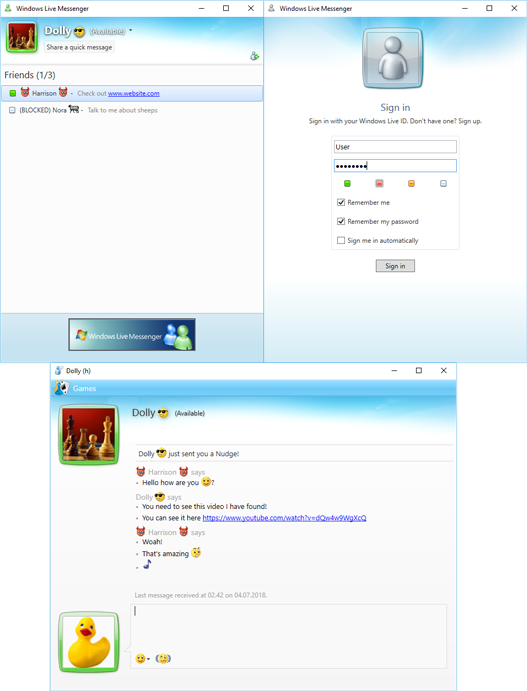
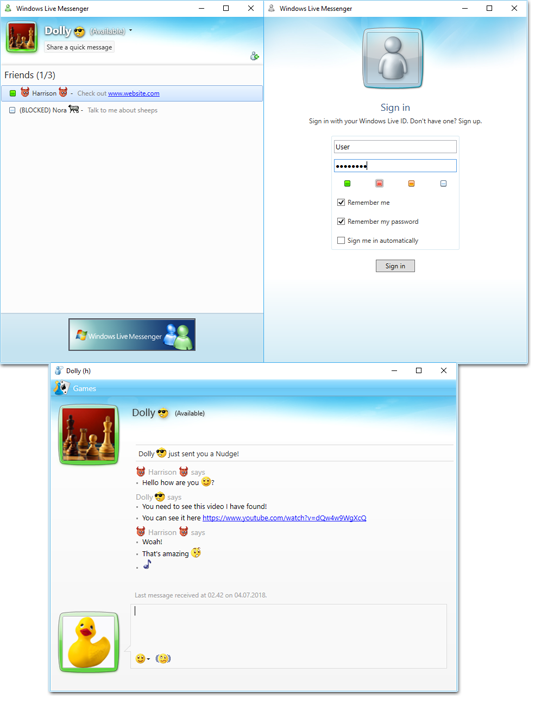
Fixed blurry image on registration page.

Changed region(s): [[0.0, 0.0, 1.0, 1.0], [0.5769, 0.0, 0.9108, 0.3951]]

diff --git a/Registration Page/style.css b/Registration Page/style.css
@@ -1,22 +1,22 @@
 html {
-  left: 0%;
-  position: relative;
-  overflow-x: hidden;
-  -webkit-transition: all .2s ease;
-  -moz-transition: all .2s ease;
-  -ms-transition: all .2s ease;
-  -o-transition: all .2s ease;
-  transition: all .2s ease;
+	left: 0%;
+	position: relative;
+	overflow-x: hidden;
+	-webkit-transition: all .2s ease;
+	-moz-transition: all .2s ease;
+	-ms-transition: all .2s ease;
+	-o-transition: all .2s ease;
+	transition: all .2s ease;
+	color: #666666;
 }
 
-body
-{
+body { 
 	overflow:auto;
-    background-color: WhiteSMoke;
+    /*background-color: WhiteSMoke;*/
+	background-color: #fdfdfd;
 }
 
-#MainWindow
-{
+#MainWindow {
 	background-image: url("\img\\header.png");
     background-repeat: no-repeat;
 	background-position: center 25px;
@@ -30,42 +30,46 @@ body
 	left: 0;
 	right: 0;
 
-    border: 1px solid #ccc;
-    background-color: #FAFAFA;
+    /*border: 1px solid #ccc;
+    background-color: #FAFAFA;*/
 }
 
-#DownloadLinkDiv
-{
+#DownloadLinkDiv {
 	position:absolute;
 	bottom: 0; 
-	left:50%;
-	margin-bottom: 5px;
+	left:33%;
+	margin-bottom: 10px;
 	transform: translate(-50%, 0%);
-    font-size: 18px;
+    font-size: 16px;
+	font-weight: bold;
+	background-color: #6699ff;
+	color: white;
+	font-family: helvetica;
+	padding: 0.75em 1.6em;
+	text-decoration: none;
+	text-transform: uppercase;
 }
 
-#ClientImageDiv
-{
-	width: 527px;
-	height: 691px;
+#ClientImageDiv {
+	width: 540px;
+	height: 706px;
 	margin: 0;
 	padding: 0;
 	position: absolute;
-	top: 55%;
-	left: 12%;
-	transform: translate(-12%, -50%);
+	top: 15%;
+	left: 5%;
+	transform: scale(1.0f);
 	background-image: url("\img\\LiveMessengerClient.png");
     background-repeat: no-repeat;
 	background-position: center center;
 }
 
-a:link    { color: #c00 }  /* unvisited links */
-a:visited { color: #0c0 }  /* visited links   */
-a:hover   { color: #00c }  /* user hovers     */
-a:active  { color: #ccc }  /* active links    */
+a:link    { color: #FFF; text-decoration: none; }
+a:visited { color: #FFF; text-decoration: none; }
+a:hover   { color: #FFF; text-decoration: none; }
+a:active  { color: #FFF; text-decoration: none; }
 
-#RegisterDiv
-{
+#RegisterDiv {
 	margin: 0;
 	padding: 0;
 	position: absolute;
@@ -75,21 +79,49 @@ a:active  { color: #ccc }  /* active links    */
 }
 
 form {
-  margin: auto;
-  position: relative;
-  width: 200px;
-  height: 350px;
-  font-family: Tahoma, Geneva, sans-serif;
-  font-size: 14px;
-  line-height: 24px;
-  color: #8c8c8c;
-  text-decoration: none;
-  padding: 10px;
+	position: relative;
+	width: 200px;
+	height: 350px;
+	font-family: sans-serif;
+	font-weight: 400;
+	font-size: 14px;
+	line-height: 24px;
+	color: #8c8c8c;
+	text-decoration: none;
+	display: inline-block;
+	padding: 3px;
+	margin: 0px;
 }
 
 input {
-    border: 1px solid #737373; 
-    padding: 2px;
-    background: rgba(255,255,255,0.5);
+	width: 95%;
+    border: 0; 
+    padding: 4px;
     margin: 0 0 10px 0;
+	background-color: #f2f2f2;
+	border-radius: 5px;
+}
+
+form h1 {
+	text-align: center;
+	color: #66b3ff;
+}
+
+form span {
+
+	color: #5c85d6;
+}
+
+.button {
+	background-color: #80bfff;
+	border: none;
+	color: white;
+	width: 98%;
+	padding: 10px 32px;
+	text-align: center;
+	text-decoration: none;
+	display: inline-block;
+	font-size: 18px;
+	margin: 14px 2px;
+	cursor: pointer;
 }

diff --git a/Registration Page/index.php b/Registration Page/index.php
@@ -7,7 +7,6 @@
 </head>
 
 <body>
-<center>
 <div id="MainWindow">
 <div id="ClientImageDiv"></div>
 <div id="RegisterDiv">
@@ -97,33 +96,32 @@ if (isset($_POST['submit']))
 ?>
 </b></center>
 <form action="" method="post">
-<center>
+
   <div>
-    <h1>Register</h1>
+    <h1>REGISTER</h1>
     <label>
-      <span>Display Name</span><br><input id="name" type="text" name="name" maxlength="20" />
+      <span>Display Name</span><br><input placeholder="" autocomplete="off" id="name" type="text" name="name" maxlength="20" />
     </label>
 <br>
     <label>
-      <span>Login ID</span><br><input id="email" type="text" name="id" maxlength="12" />
+      <span>Login ID</span><br><input placeholder="" autocomplete="off" id="email" type="text" name="id" maxlength="12" />
     </label>
 <br>
     <label>
-      <span>Password</span><br><input id="email" type="password" name="pass" maxlength="20" />
+      <span>Password</span><br><input placeholder="" autocomplete="off" id="email" type="password" name="pass" maxlength="20" />
     </label>
 <br>
     <label>
-      <input type="submit" value="submit" name="submit" style="width: 200px; height: 50px;" />
+      <input type="submit" value="register" name="submit" class="button" />
     </label>
   </div>
-  </center>
+
 </form>
 </div>
 
 <div id="DownloadLinkDiv">
-<center><a href="#">DOWNLOAD BETA CLIENT</a></center>
+<a href="#">DOWNLOAD MESSENGER</a>
 </div>
 </div>
-</center>
 </body>
 </html>
